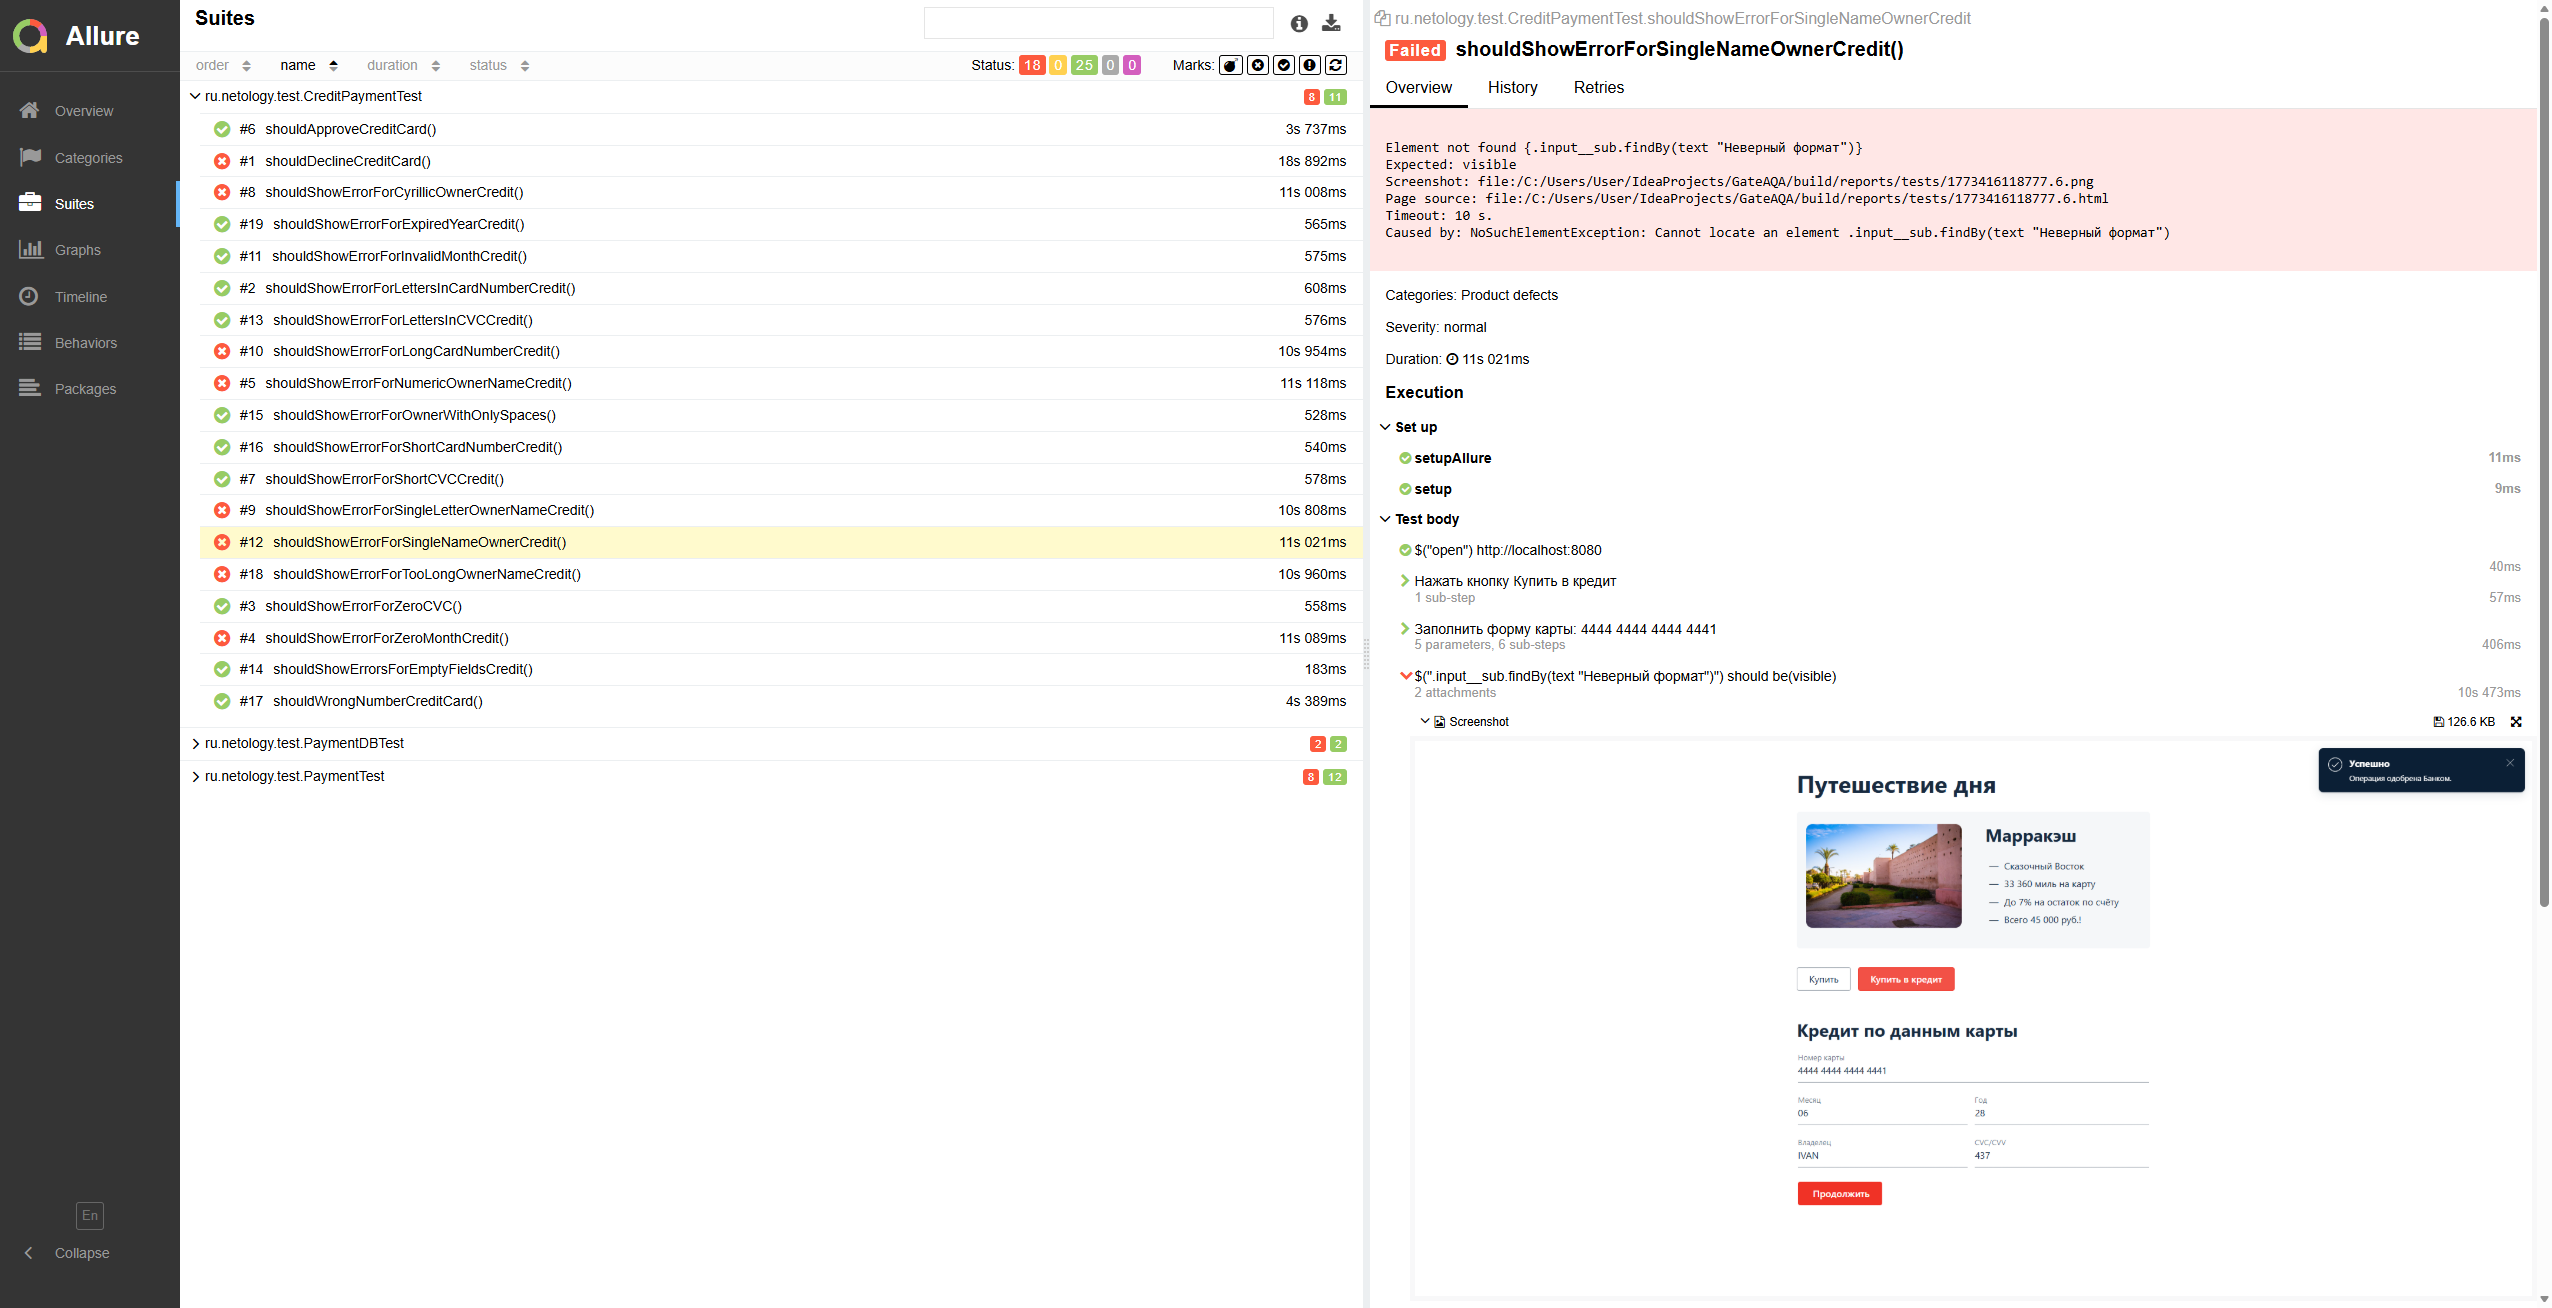
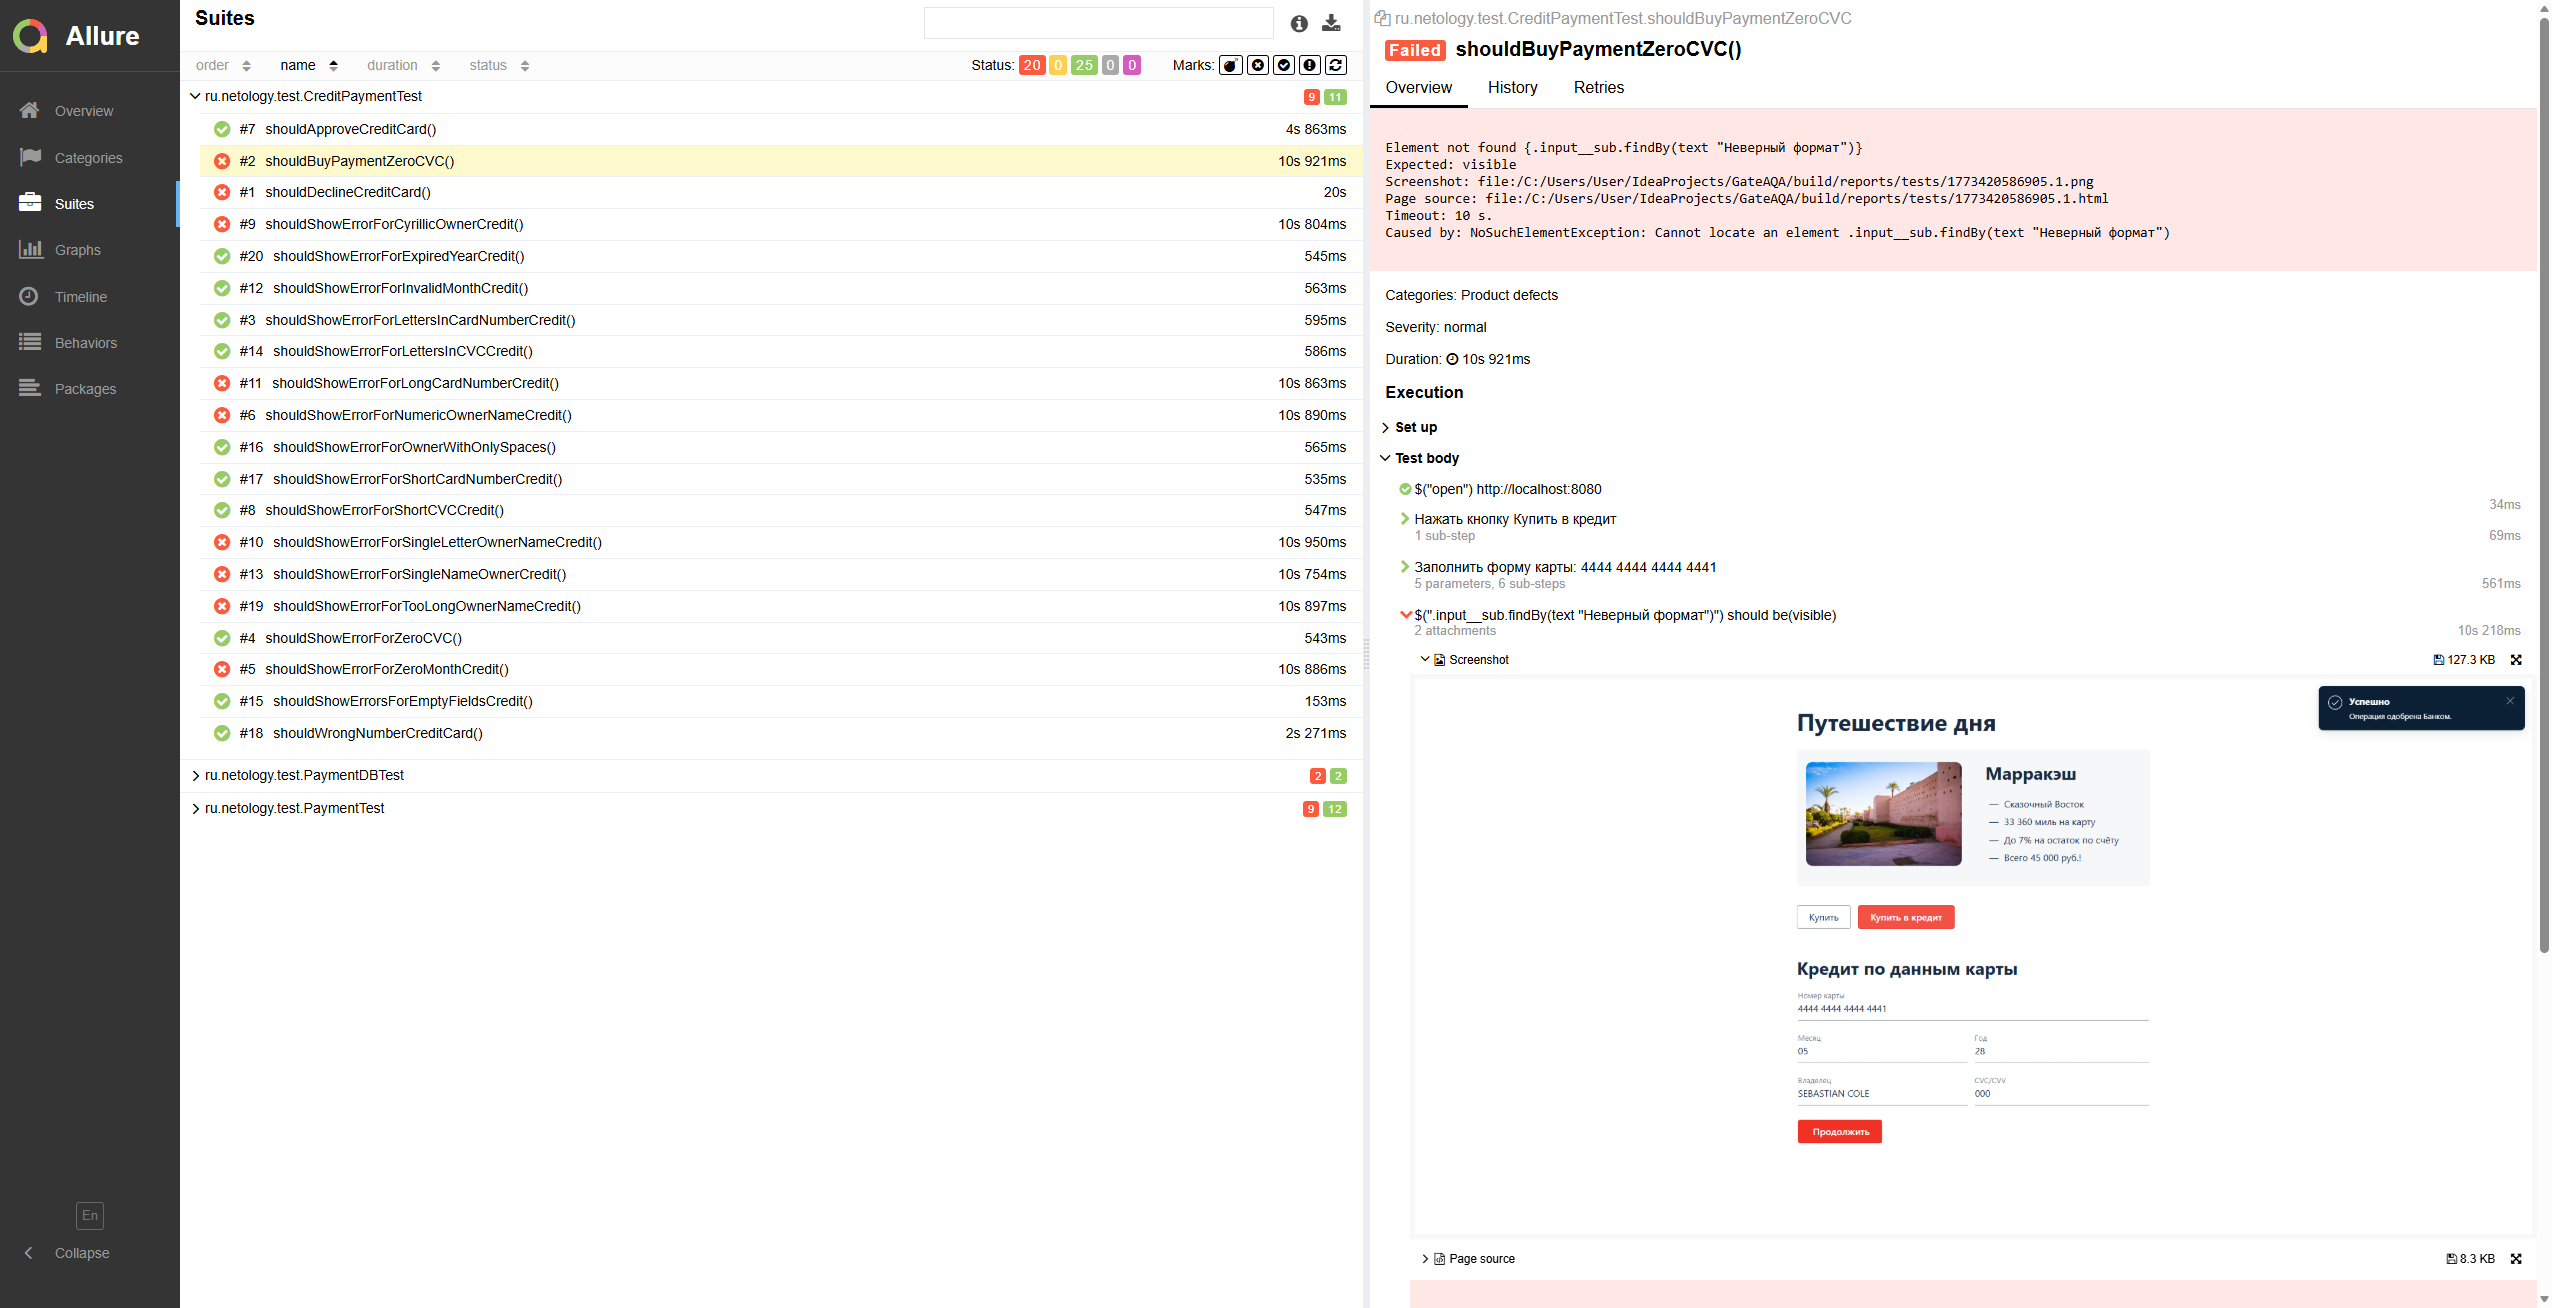
Update docs, new tests

diff --git a/src/test/java/ru/netology/test/PaymentTest.java b/src/test/java/ru/netology/test/PaymentTest.java
@@ -402,4 +402,25 @@ public class PaymentTest extends BaseTest {
                 .findBy(text("Неверный формат"))
                 .shouldBe(visible);
     }
+
+    @Test // Баг: допускает три нуля в CVC
+    void shouldBuyPaymentZeroCVC() {
+
+        open("http://localhost:8080");
+
+        PaymentPage paymentPage = new PaymentPage();
+        paymentPage.clickBuy();
+
+        paymentPage.fillForm(
+                "4444 4444 4444 4441",
+                DataHelper.generateMonth(),
+                DataHelper.generateYear(),
+                DataHelper.generateOwner(),
+                "000"
+        );
+
+        $$(".input__sub")
+                .findBy(text("Неверный формат"))
+                .shouldBe(visible);
+    }
 }

diff --git a/src/test/java/ru/netology/test/CreditPaymentTest.java b/src/test/java/ru/netology/test/CreditPaymentTest.java
@@ -419,5 +419,25 @@ public class CreditPaymentTest extends BaseTest {
                 .shouldBe(visible);
     }
 
+    @Test // Баг: допускает три нуля в CVC
+    void shouldBuyPaymentZeroCVC() {
+
+        open("http://localhost:8080");
+
+        PaymentPage paymentPage = new PaymentPage();
+        paymentPage.clickBuyCredit();
+
+        paymentPage.fillForm(
+                "4444 4444 4444 4441",
+                DataHelper.generateMonth(),
+                DataHelper.generateYear(),
+                DataHelper.generateOwner(),
+                "000"
+        );
+
+        $$(".input__sub")
+                .findBy(text("Неверный формат"))
+                .shouldBe(visible);
+    }
 }
 

diff --git a/docs/Report.md b/docs/Report.md
@@ -13,17 +13,19 @@
 * UI тесты — 41 (1 тест на проверку открытия формы страницы)
 * тесты проверки базы данных — 4
 
-Общее количество тестов: **43**
+Общее количество тестов: **45**
 
 ## Результаты тестирования
 
 Успешно выполнено: **25**
 
-Неуспешно: **18**
+Неуспешно: **20**
 
-Процент успешных тестов: **58,13%**
+Процент успешных тестов: **55,55%**
 
 ## Найденные дефекты
+
+Все найденные дефекты относятся как к странице "Купить", так и к странице "Купить в кредит"
 
 1. Карта **4444 4444 4444 4442** обрабатывается как APPROVED, хотя должна иметь статус DECLINED (В покупке и кредите).
 
@@ -33,11 +35,13 @@
 
 4. Поле владельца карты принимает имя без фамилии.
 
-5. Поле владельца не имеет ограничений на количество вводимых символов
+5. Поле владельца не имеет ограничений на количество вводимых символов.
 
 6. Система принимает владельца с именем состоящем из цифр.
 
+7. Поле CVC принимает значение **000**, хотя это некорректный формат.
 
+8. На странице сайта с ошибкой написано название страны.
 ## Рекомендации
 
 * исправить обработку карты 4442
@@ -45,3 +49,5 @@
 * ограничить ввод имени владельца карты только латиницей
 * улучшить обработку ошибок формы
 * добавить валидацию поля владельца (обязательно имя и фамилия, ограничение в количестве символов 30-40)
+* исправить название страны на главной странице
+* добавить валидацию CVC

diff --git a/docs/Plan.md b/docs/Plan.md
@@ -49,25 +49,35 @@
 * просроченный год
 * короткий CVC
 * буквы в CVC
+* нули в CVC
 * кириллица в имени владельца
+* только имя в поле "владелец"
+* только цифры в поле "владелец"
 * буквы в номере карты
 
 ### Кредит
 
-* успешная покупка в кредит
+* успешная оплата
 * отклонённая карта
 * пустые поля формы
 * неверный месяц
 * месяц равен 00
+* месяц больше 12
 * просроченный год
-* ошибки в CVC
-* ошибки в номере карты
+* короткий CVC
+* буквы в CVC
+* нули в CVC
+* кириллица в имени владельца
+* только имя в поле "владелец"
+* только цифры в поле "владелец"
+* буквы в номере карты
 
 ## Риски
 
 * нестабильность браузера
 * возможные ошибки синхронизации UI
 * проблемы подключения к базе данных
+* отсутствие чёткой документации
 
 ## Ожидаемый результат
 

diff --git a/README.md b/README.md
@@ -4,6 +4,12 @@
 - [Отчёт о проведённом тестировании](docs/Report.md)
 - [Отчёт по автоматизации тестирования](docs/Summary.md)
 
+## Скриншоты проекта
+
+- [Скрин репорта](screenshots/allure-report.png)
+- [Скрин шагов](screenshots/allure-steps.png)
+- [Скрин gradle](screenshots/gradle-report.png)
+
 ---
 
 # Дипломный проект по профессии «Тестировщик»
